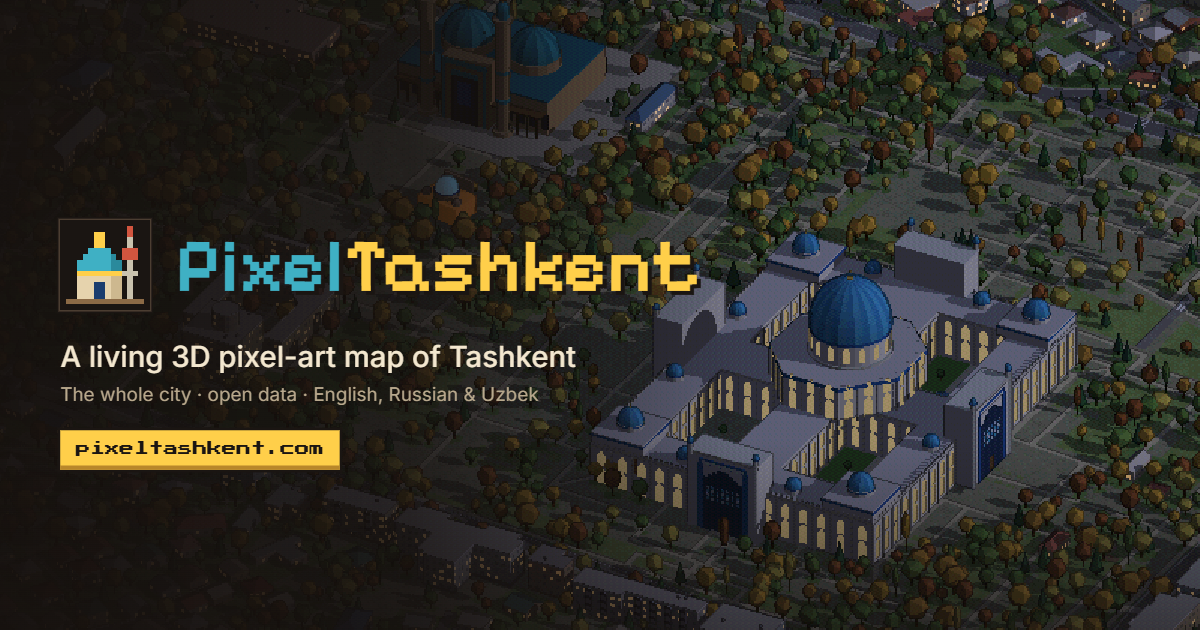
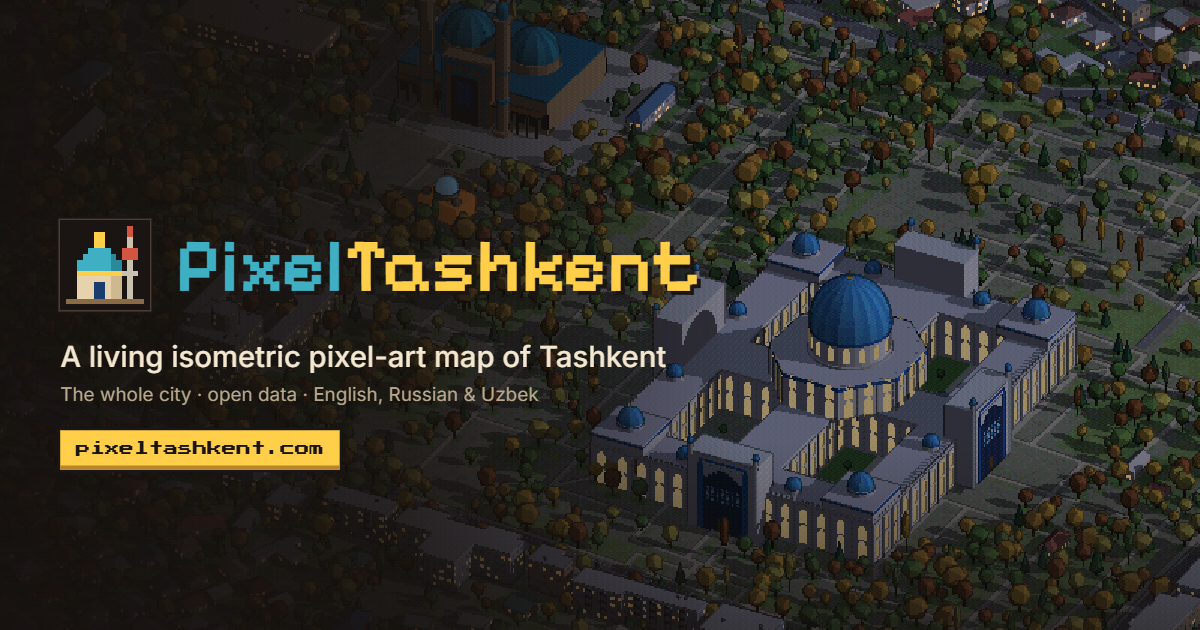
Isometric Map

Changed region(s): [[0.1233, 0.5429, 0.555, 0.6032]]

diff --git a/index.html b/index.html
@@ -3,7 +3,7 @@
 <head>
   <meta charset="utf-8">
   <meta name="viewport" content="width=device-width, initial-scale=1, maximum-scale=1, viewport-fit=cover">
-  <title>PixelTashkent — живая 3D пиксельная карта Ташкента</title>
+  <title>PixelTashkent — живая изометрическая пиксельная карта Ташкента</title>
   <meta name="description" content="Интерактивная изометрическая пиксельная карта Ташкента: достопримечательности, живые улицы, светофоры, день и ночь.">
   <meta name="theme-color" content="#231d18">
   <link rel="icon" href="assets/logo.svg" type="image/svg+xml">
@@ -11,18 +11,18 @@
   <link rel="canonical" href="https://pixeltashkent.com/">
   <meta property="og:type" content="website">
   <meta property="og:url" content="https://pixeltashkent.com/">
-  <meta property="og:title" content="PixelTashkent — живая 3D пиксельная карта Ташкента">
+  <meta property="og:title" content="PixelTashkent — живая изометрическая пиксельная карта Ташкента">
   <meta property="og:description" content="Интерактивная изометрическая пиксельная карта Ташкента: достопримечательности, живые улицы, светофоры, день и ночь.">
   <meta property="og:image" content="https://pixeltashkent.com/assets/og.png">
   <meta property="og:image:width" content="1200">
   <meta property="og:image:height" content="630">
-  <meta property="og:image:alt" content="PixelTashkent: a living 3D pixel-art map of Tashkent">
+  <meta property="og:image:alt" content="PixelTashkent: a living isometric pixel-art map of Tashkent">
   <meta name="twitter:image" content="https://pixeltashkent.com/assets/og.png">
   <meta name="twitter:card" content="summary_large_image">
   <link rel="preconnect" href="https://fonts.googleapis.com">
   <link rel="preconnect" href="https://fonts.gstatic.com" crossorigin>
   <link href="https://fonts.googleapis.com/css2?family=Inter:wght@400;500;600;700&family=Pixelify+Sans:wght@400;600&family=Press+Start+2P&display=swap" rel="stylesheet">
-  <link rel="stylesheet" href="css/style.css?v=2026111103">
+  <link rel="stylesheet" href="css/style.css?v=2026111104">
 </head>
 <body>
   <div id="stage">
@@ -36,7 +36,7 @@
       <img class="logo-icon" src="assets/logo.svg" alt="" width="44" height="44">
       <div>
         <h1><span class="w1">Pixel</span><span class="w2">Tashkent</span></h1>
-        <p data-i18n="tagline">Живая 3D-карта Ташкента</p>
+        <p data-i18n="tagline">Живая изометрическая карта Ташкента</p>
       </div>
     </div>
     <button id="btn-places" class="places-btn" aria-expanded="false" aria-controls="places">
@@ -155,31 +155,31 @@
   <noscript><p class="nojs" data-i18n="noJS">Для работы карты включите JavaScript.</p></noscript>
   <p id="nogl" class="nojs" hidden data-i18n="noGL">Браузер не поддерживает WebGL — обновите браузер или включите аппаратное ускорение.</p>
 
-  <script src="lib/three.min.js?v=2026111103"></script>
-  <script src="lib/earcut-src.js?v=2026111103"></script>
-  <script src="js/config.js?v=2026111103"></script>
-  <script src="js/terrain.js?v=2026111103"></script>
-  <script src="js/landmarks.js?v=2026111103"></script>
-  <script src="js/i18n.js?v=2026111103"></script>
-  <script src="js/i18n-places.js?v=2026111103"></script>
-  <script src="js/data.js?v=2026111103"></script>
-  <script src="js/geo-worker.js?v=2026111103"></script>
-  <script src="js/scene.js?v=2026111103"></script>
-  <script src="js/tiles.js?v=2026111103"></script>
-  <script src="js/models.js?v=2026111103"></script>
-  <script src="js/models-detail.js?v=2026111103"></script>
-  <script src="js/models-decor.js?v=2026111103"></script>
-  <script src="js/traffic.js?v=2026111103"></script>
-  <script src="js/city.js?v=2026111103"></script>
-  <script src="js/areas.js?v=2026111103"></script>
-  <script src="js/minimap.js?v=2026111103"></script>
-  <script src="js/photos.js?v=2026111103"></script>
-  <script src="js/ui.js?v=2026111103"></script>
-  <script src="data/index.js?v=2026111103"></script>
-  <script src="data/lm.js?v=2026111103"></script>
-  <script src="data/terrain.js?v=2026111103"></script>
-  <script src="data/areas.js?v=2026111103"></script>
-  <script src="data/minimap.js?v=2026111103"></script>
-  <script src="js/main.js?v=2026111103"></script>
+  <script src="lib/three.min.js?v=2026111104"></script>
+  <script src="lib/earcut-src.js?v=2026111104"></script>
+  <script src="js/config.js?v=2026111104"></script>
+  <script src="js/terrain.js?v=2026111104"></script>
+  <script src="js/landmarks.js?v=2026111104"></script>
+  <script src="js/i18n.js?v=2026111104"></script>
+  <script src="js/i18n-places.js?v=2026111104"></script>
+  <script src="js/data.js?v=2026111104"></script>
+  <script src="js/geo-worker.js?v=2026111104"></script>
+  <script src="js/scene.js?v=2026111104"></script>
+  <script src="js/tiles.js?v=2026111104"></script>
+  <script src="js/models.js?v=2026111104"></script>
+  <script src="js/models-detail.js?v=2026111104"></script>
+  <script src="js/models-decor.js?v=2026111104"></script>
+  <script src="js/traffic.js?v=2026111104"></script>
+  <script src="js/city.js?v=2026111104"></script>
+  <script src="js/areas.js?v=2026111104"></script>
+  <script src="js/minimap.js?v=2026111104"></script>
+  <script src="js/photos.js?v=2026111104"></script>
+  <script src="js/ui.js?v=2026111104"></script>
+  <script src="data/index.js?v=2026111104"></script>
+  <script src="data/lm.js?v=2026111104"></script>
+  <script src="data/terrain.js?v=2026111104"></script>
+  <script src="data/areas.js?v=2026111104"></script>
+  <script src="data/minimap.js?v=2026111104"></script>
+  <script src="js/main.js?v=2026111104"></script>
 </body>
 </html>

diff --git a/js/i18n.js b/js/i18n.js
@@ -8,7 +8,7 @@
   const D = {
     ru: {
       langName: "Русский",
-      tagline: "Живая 3D-карта Ташкента",
+      tagline: "Живая изометрическая карта Ташкента",
       places: "Места", placesMore: " на карте",
       placesTitle: "Места",
       search: "Поиск: базар, мечеть, парк…",
@@ -38,7 +38,7 @@
     },
     en: {
       langName: "English",
-      tagline: "A living 3D map of Tashkent",
+      tagline: "A living isometric map of Tashkent",
       places: "Places", placesMore: " on the map",
       placesTitle: "Places",
       search: "Search: bazaar, mosque, park…",
@@ -68,7 +68,7 @@
     },
     uz: {
       langName: "O'zbekcha",
-      tagline: "Toshkentning jonli 3D xaritasi",
+      tagline: "Toshkentning jonli izometrik xaritasi",
       places: "Joylar", placesMore: " xaritada",
       placesTitle: "Joylar",
       search: "Qidiruv: bozor, masjid, bog'…",

diff --git a/README.md b/README.md
@@ -1,5 +1,5 @@
 <div align="center">
-  <img src="assets/readme-banner.png" alt="PixelTashkent: a living 3D pixel-art map of Tashkent, Hazrati Imam at dusk" width="100%" />
+  <img src="assets/readme-banner.png" alt="PixelTashkent: a living isometric pixel-art map of Tashkent, Hazrati Imam at dusk" width="100%" />
 </div>
 
 <div align="center">
@@ -37,7 +37,7 @@ The renderer uses multiple levels of detail (LOD) to keep a city-sized scene res
 |---|---|
 | Close | Detailed geometry and real-time shadows |
 | Mid | Simplified tree crowns; shadows are reduced |
-| Far | Pre-rendered tile textures for ground, roads, water and low vegetation; tall buildings and landmarks remain 3D |
+| Far | Pre-rendered tile textures for ground, roads, water and low vegetation; tall buildings and landmarks keep their full geometry |
 
 Tiles are loaded only when visible. Web Workers decode tile data and build geometry; OffscreenCanvas rasterises far-view textures. Instancing, merged meshes, frustum culling and quality presets help reduce GPU and CPU work.
 
